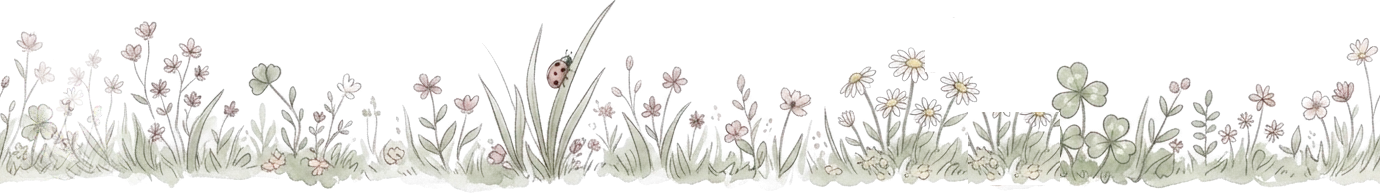
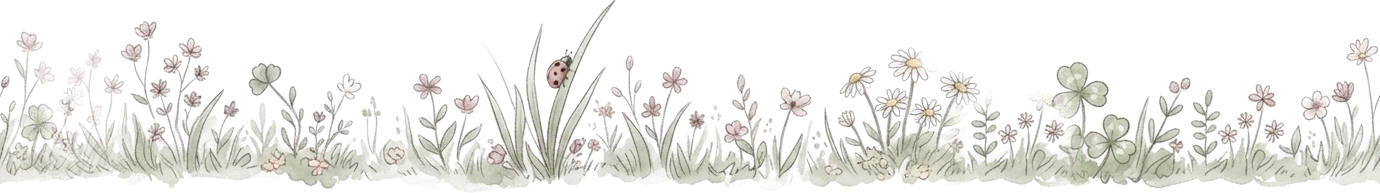
Little Hollow: smoother meadow where the snail and bee were lifted out
Claude-Session: https://claude.ai/code/session_019MTJUgo2eSoe3fVWqeMEns

Changed region(s): [[0.6855, 0.4974, 0.779, 0.9637], [0.6543, 0.3109, 0.6855, 0.342]]

diff --git a/index.html b/index.html
@@ -13,7 +13,7 @@
 <link rel="apple-touch-icon" href="apple-touch-icon.png">
 <link rel="icon" type="image/png" href="apple-touch-icon.png">
 <style>html,body{background:#252D2C;height:100%;margin:0}</style>
-<script>window.__plannerBuild = 'Nov 25, 9:25 AM';</script>
+<script>window.__plannerBuild = 'Nov 25, 9:28 AM';</script>
 <script src="dc-runtime.js"></script>
 </head>
 <body>
@@ -5901,7 +5901,7 @@ class Component extends DCLogic {
   // Art for image themes: files next to the GitHub page, or the claude.ai copy's uploaded assets.
   themeAsset(t, name) {
     if (!t || !t.img || !name) return '';
-    const map = {'themes/littlehollow/paper.webp': '/_blob/d360c2c28dcce6ffb6783f982edf204d', 'themes/littlehollow/olesia.woff2': '/_blob/de8e491310b592e078c879c16cca8755', 'themes/littlehollow/bee-flower.webp': '/_blob/30c5455417b12e2c6b15f973fd881a90', 'themes/littlehollow/bee-wings-up.webp': '/_blob/b273b68a0475bc256a6ebbb2401becfc', 'themes/littlehollow/bee-wings-down.webp': '/_blob/da84d75741e82e9094f145f479539623', 'themes/littlehollow/card.webp': '/_blob/f8fb9d30a8146251bc0bac5869852ffc', 'themes/littlehollow/bee.webp': '/_blob/6f071e99b270820feeefd81ff2eac110', 'themes/littlehollow/snail.webp': '/_blob/0bd67ea5e0150c0239a3b744c9bd7698', 'themes/littlehollow/squirrel-toss-empty.webp': '/_blob/3a7278d2b5528719d1e5e8717b4fb982', 'themes/littlehollow/grass.webp': '/_blob/c86ebb9106f44cef2b3a6a62ca32c941', 'themes/littlehollow/branch.webp': '/_blob/0569b8731a45d9736bf30a47aefb98fa', 'themes/littlehollow/acorn.webp': '/_blob/fd7694cdc68432a3a113a0800bcc8f44', 'themes/littlehollow/squirrel-toss.webp': '/_blob/3f3e33ac47e702c148d2981a351480ce', 'themes/littlehollow/squirrel-catch.webp': '/_blob/ae5421511bd271a1e52c55dff7b4b397'};
+    const map = {'themes/littlehollow/paper.webp': '/_blob/d360c2c28dcce6ffb6783f982edf204d', 'themes/littlehollow/olesia.woff2': '/_blob/de8e491310b592e078c879c16cca8755', 'themes/littlehollow/bee-flower.webp': '/_blob/30c5455417b12e2c6b15f973fd881a90', 'themes/littlehollow/bee-wings-up.webp': '/_blob/b273b68a0475bc256a6ebbb2401becfc', 'themes/littlehollow/bee-wings-down.webp': '/_blob/da84d75741e82e9094f145f479539623', 'themes/littlehollow/card.webp': '/_blob/f8fb9d30a8146251bc0bac5869852ffc', 'themes/littlehollow/bee.webp': '/_blob/6f071e99b270820feeefd81ff2eac110', 'themes/littlehollow/snail.webp': '/_blob/0bd67ea5e0150c0239a3b744c9bd7698', 'themes/littlehollow/squirrel-toss-empty.webp': '/_blob/3a7278d2b5528719d1e5e8717b4fb982', 'themes/littlehollow/grass.webp': '/_blob/737124dd1f3448c0f709693450644293', 'themes/littlehollow/branch.webp': '/_blob/0569b8731a45d9736bf30a47aefb98fa', 'themes/littlehollow/acorn.webp': '/_blob/fd7694cdc68432a3a113a0800bcc8f44', 'themes/littlehollow/squirrel-toss.webp': '/_blob/3f3e33ac47e702c148d2981a351480ce', 'themes/littlehollow/squirrel-catch.webp': '/_blob/ae5421511bd271a1e52c55dff7b4b397'};
     if (typeof window !== 'undefined' && window.__plannerBuild) return t.img.dir + name;
     return map[t.img.dir + name] || '';
   }
